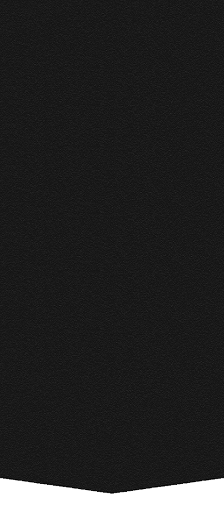
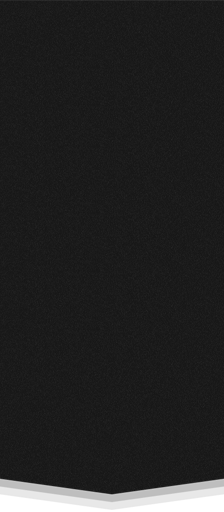
fix some parts , add opacity , remove images and add images :D

Changed region(s): [[0.0, 0.9062, 1.0, 1.0]]

diff --git a/aligh/mystyle.css b/aligh/mystyle.css
@@ -1,13 +1,3 @@
-body{
-/*	background-image:url(images/back.png);
-	background-repeat:no-repeat;
-	background-position:center top; */
-}
-
-.backimg{
-		
-}
-
 .backimg > div{
 	position:fixed;
 	background-position:center top;
@@ -21,23 +11,19 @@ body{
 }
 
 .img1{
-	background-image:url(images/slider_pic1.jpg);
+	background-image:url(images/1.jpg);
 }
 
 .img2{
-	background-image:url(images/slider_pic11.jpg);
+	background-image:url(images/2.jpg);
 }
 
 .img3{
-	background-image:url(images/slider_pic12.jpg);
+	background-image:url(images/3.jpg);
 }
 
 .img4{
-	background-image: url(images/slider_pic2.jpg);
-}
-
-div{
-	/*outline: 1px red solid;*/
+	background-image: url(images/4.jpg);
 }
 
 .container{
@@ -54,6 +40,7 @@ div{
 	background-image:url(images/head_reabon.png);
 	background-repeat:no-repeat;
 	background-position:center top;
+	opacity:.9;
 }
 
 .nav .logo{
@@ -107,16 +94,15 @@ div{
 
 .bottom-background{
 	background-image:url(images/bottom_row.gif);
+	opacity:.9;
 }
 
 .bottom-background .bottom-container{
-	outline-color:green;
 	background-image:url(images/title_row.gif);
 	background-repeat:repeat-x;
 }
 
 .bottom-container .bottom-content{
-	outline-color:blue;
 	padding-top:1px;
 	width:980px;
 }
@@ -173,7 +159,6 @@ div{
 	width:auto;
 	margin-right:28px;
 	margin-left:750px;
-	outline-color:#3CF;
 }
 
 .bottom-background .footer-container{
